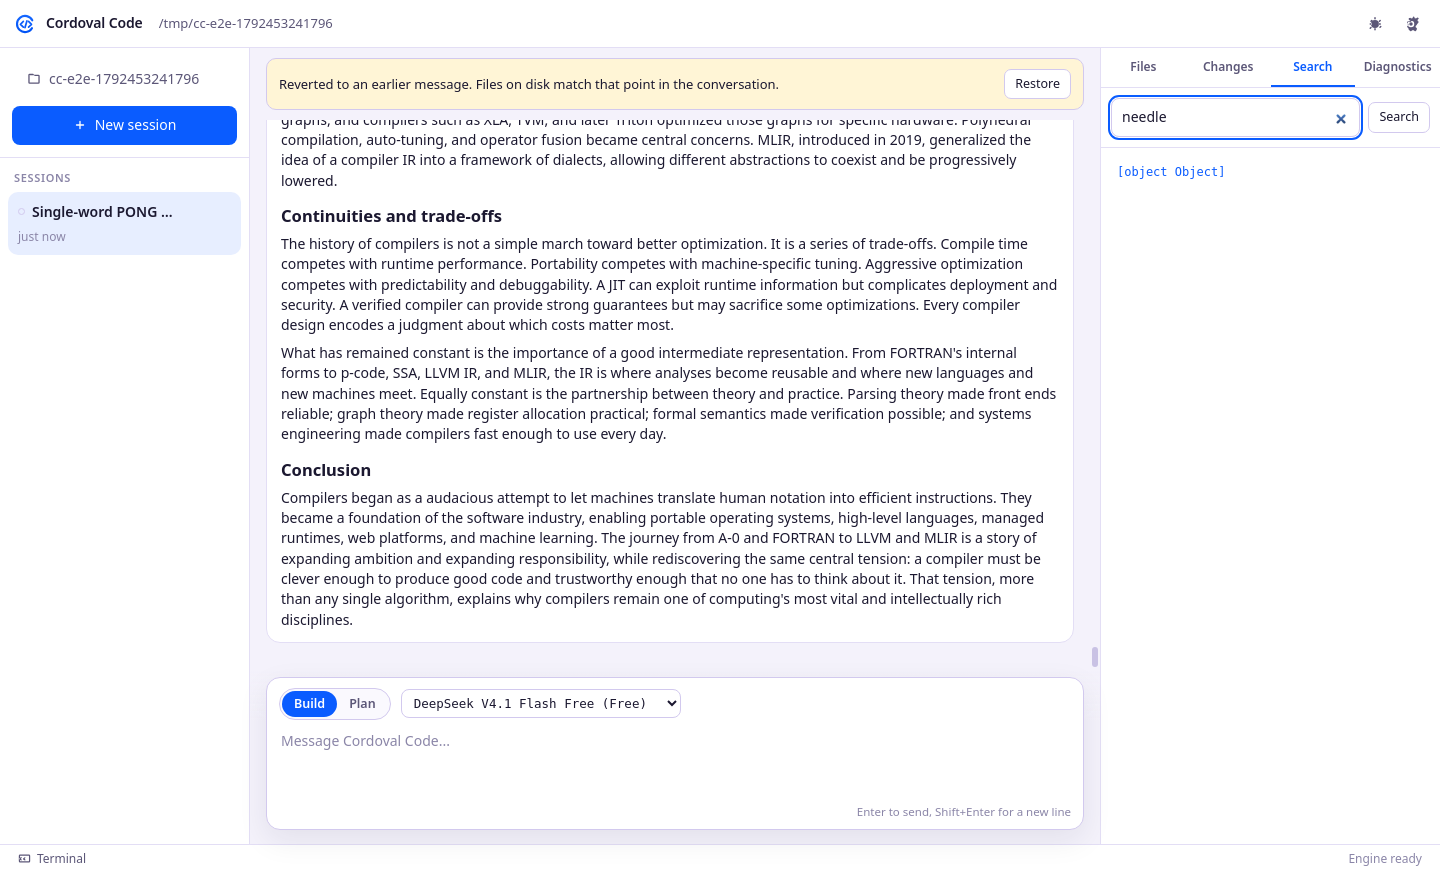
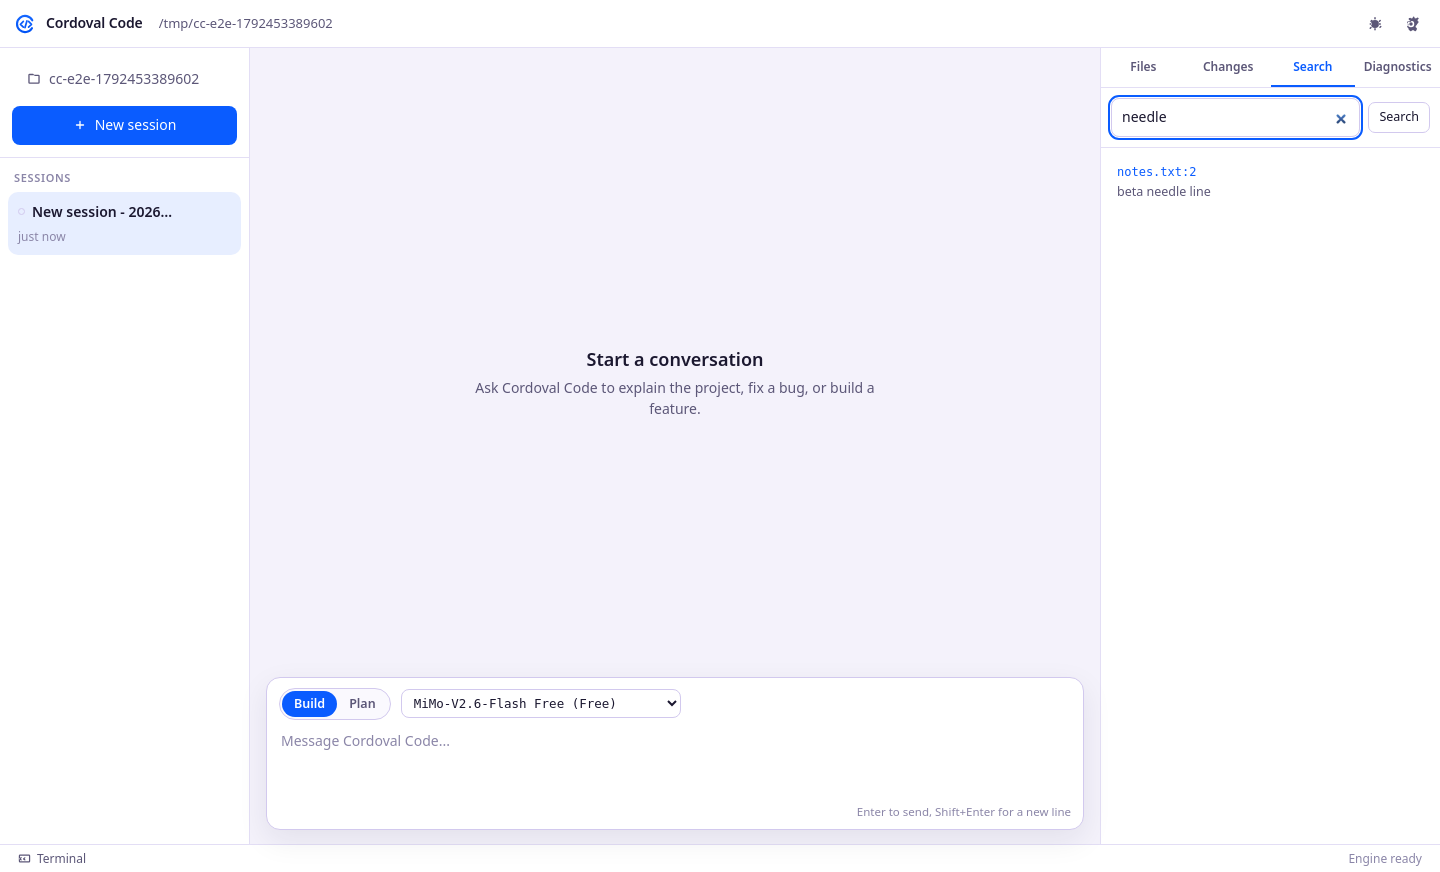
Fix search results rendering

diff --git a/src/renderer/app.js b/src/renderer/app.js
@@ -1370,9 +1370,11 @@
       for (const item of list.slice(0, 300)) {
         const btn = el('button', 'search-result');
         btn.type = 'button';
-        const path = item.file || item.path || '';
-        btn.appendChild(el('div', 'search-result-path', path + (item.line ? ':' + item.line : '')));
-        const lines = Array.isArray(item.lines) ? item.lines.join('\n') : (item.text || item.match || '');
+        const txt = function (v) { return v && typeof v === 'object' ? (v.text != null ? v.text : '') : (v == null ? '' : v); };
+        const path = String(txt(item.path) || item.file || '').replace(/^\.\//, '');
+        const lineNo = item.line_number || item.line;
+        btn.appendChild(el('div', 'search-result-path', path + (lineNo ? ':' + lineNo : '')));
+        const lines = Array.isArray(item.lines) ? item.lines.map(txt).join('\n') : (txt(item.lines) || item.text || item.match || '');
         btn.appendChild(el('div', 'search-result-line', String(lines).slice(0, 400)));
         btn.addEventListener('click', function () {
           openFile(path);
